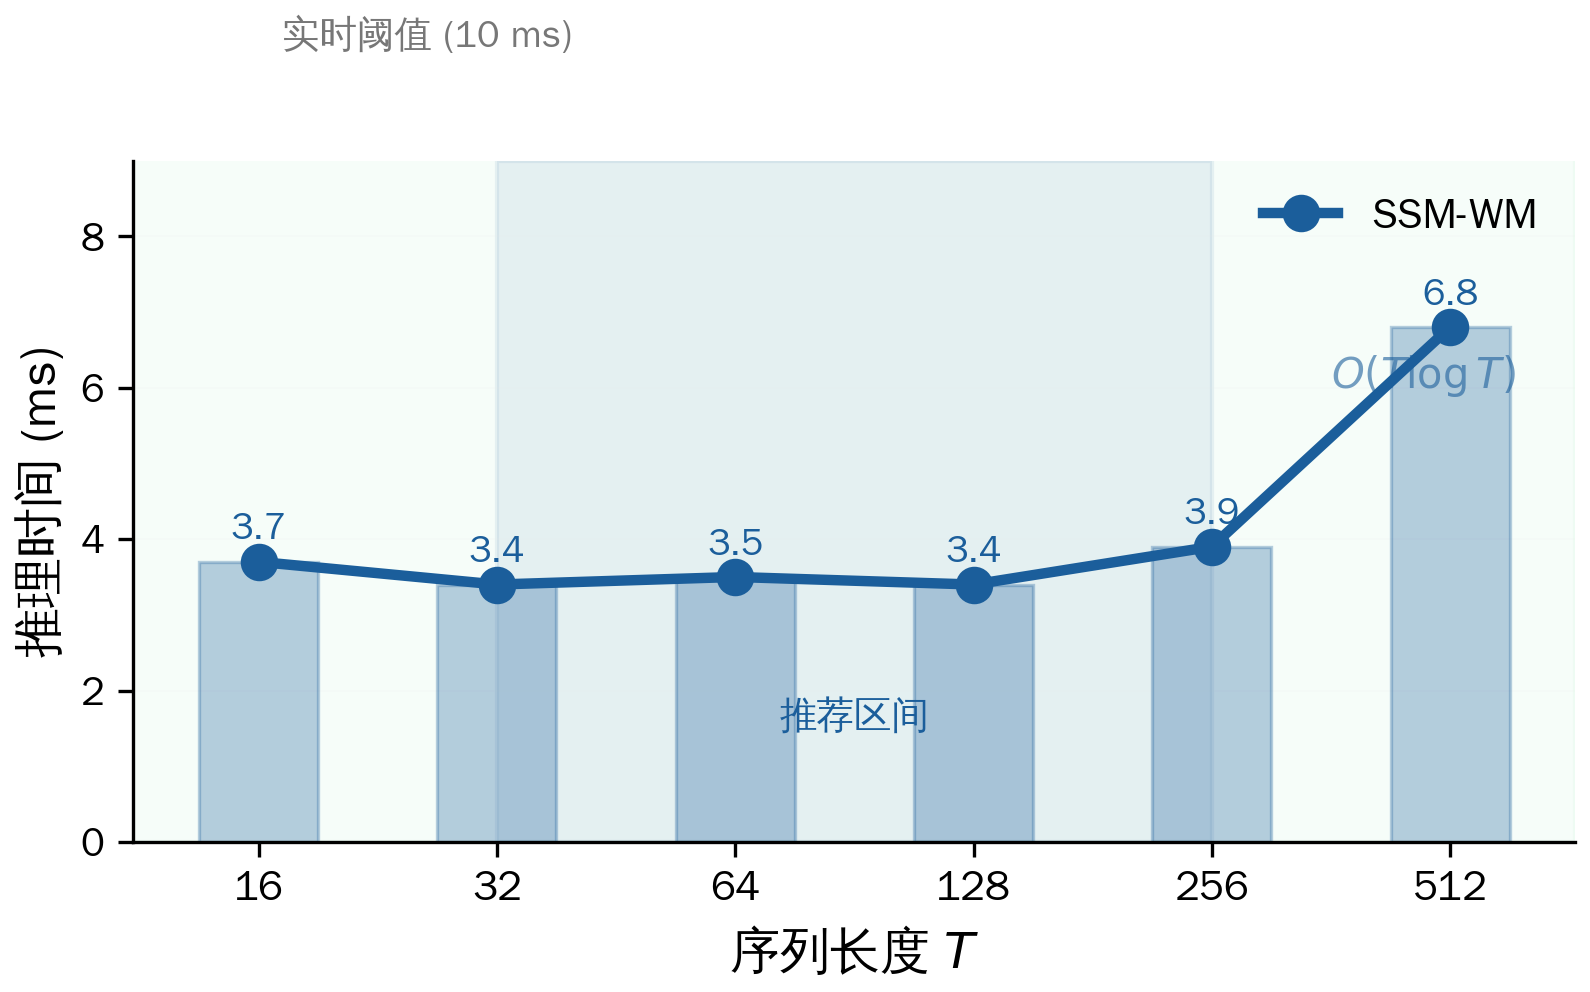
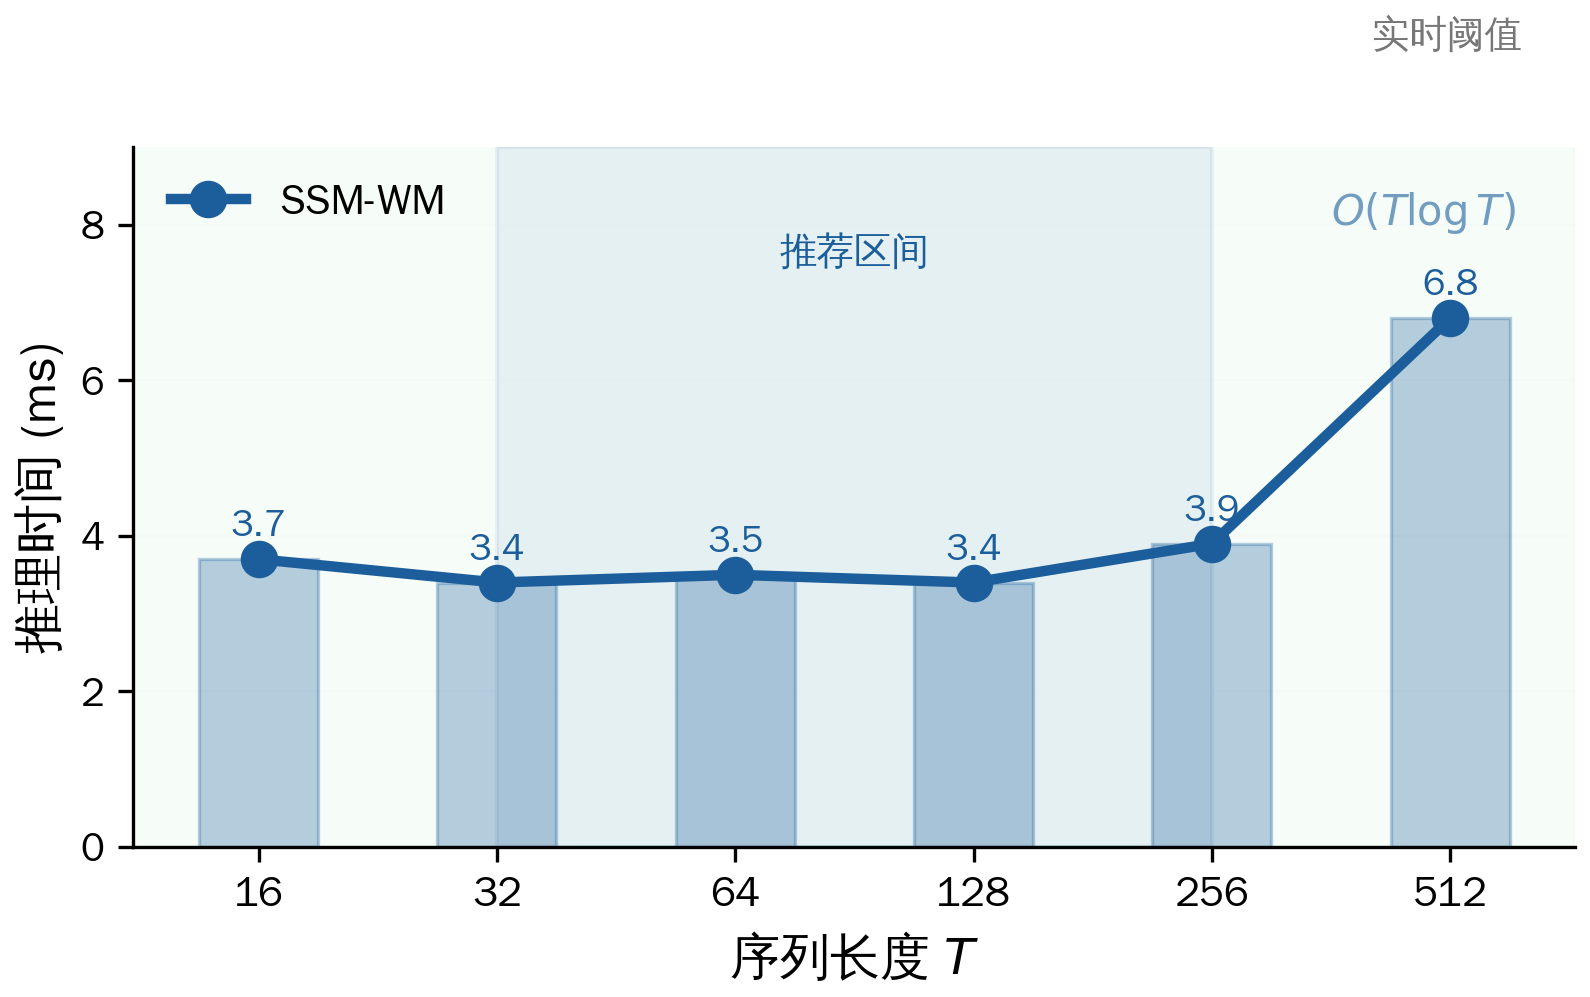
fix: 图2标注移到上方不卡进柱子

diff --git a/scripts/generate_figures_nature.py b/scripts/generate_figures_nature.py
@@ -123,18 +123,18 @@ def fig2():
     # Real-time zone fill
     ax.axhspan(0, 10, alpha=0.04, color='#2ecc71', zorder=0)
     ax.axhline(y=10, color='#999', linestyle=':', linewidth=0.8, alpha=0.8)
-    ax.text(0.1, 10.5, '实时阈值 (10 ms)', fontsize=9, color='#777')
+    ax.text(5.3, 10.3, '实时阈值', fontsize=9, color='#777', ha='right')
 
     # Recommended range highlight
     ax.axvspan(1, 4, alpha=0.08, color=C_SSM, zorder=0)
-    ax.annotate('推荐区间', xy=(2.5, 1.5), fontsize=9, color=C_SSM, fontstyle='italic', ha='center')
+    ax.annotate('推荐区间', xy=(2.5, 7.5), fontsize=9, color=C_SSM, fontstyle='italic', ha='center')
 
     # Value labels
     for i, v in enumerate(ssm):
         ax.text(i, v + 0.3, f'{v}', ha='center', fontsize=9, color=C_SSM, fontweight='bold')
 
     # Complexity annotation
-    ax.annotate('$O(T\\log T)$', xy=(4.5, 6.0), fontsize=10, color=C_SSM, fontweight='bold', alpha=0.6)
+    ax.annotate('$O(T\\log T)$', xy=(4.5, 8.0), fontsize=10, color=C_SSM, fontweight='bold', alpha=0.6)
 
     ax.set_xlabel('序列长度 $T$', fontsize=12)
     ax.set_ylabel('推理时间 (ms)', fontsize=12)